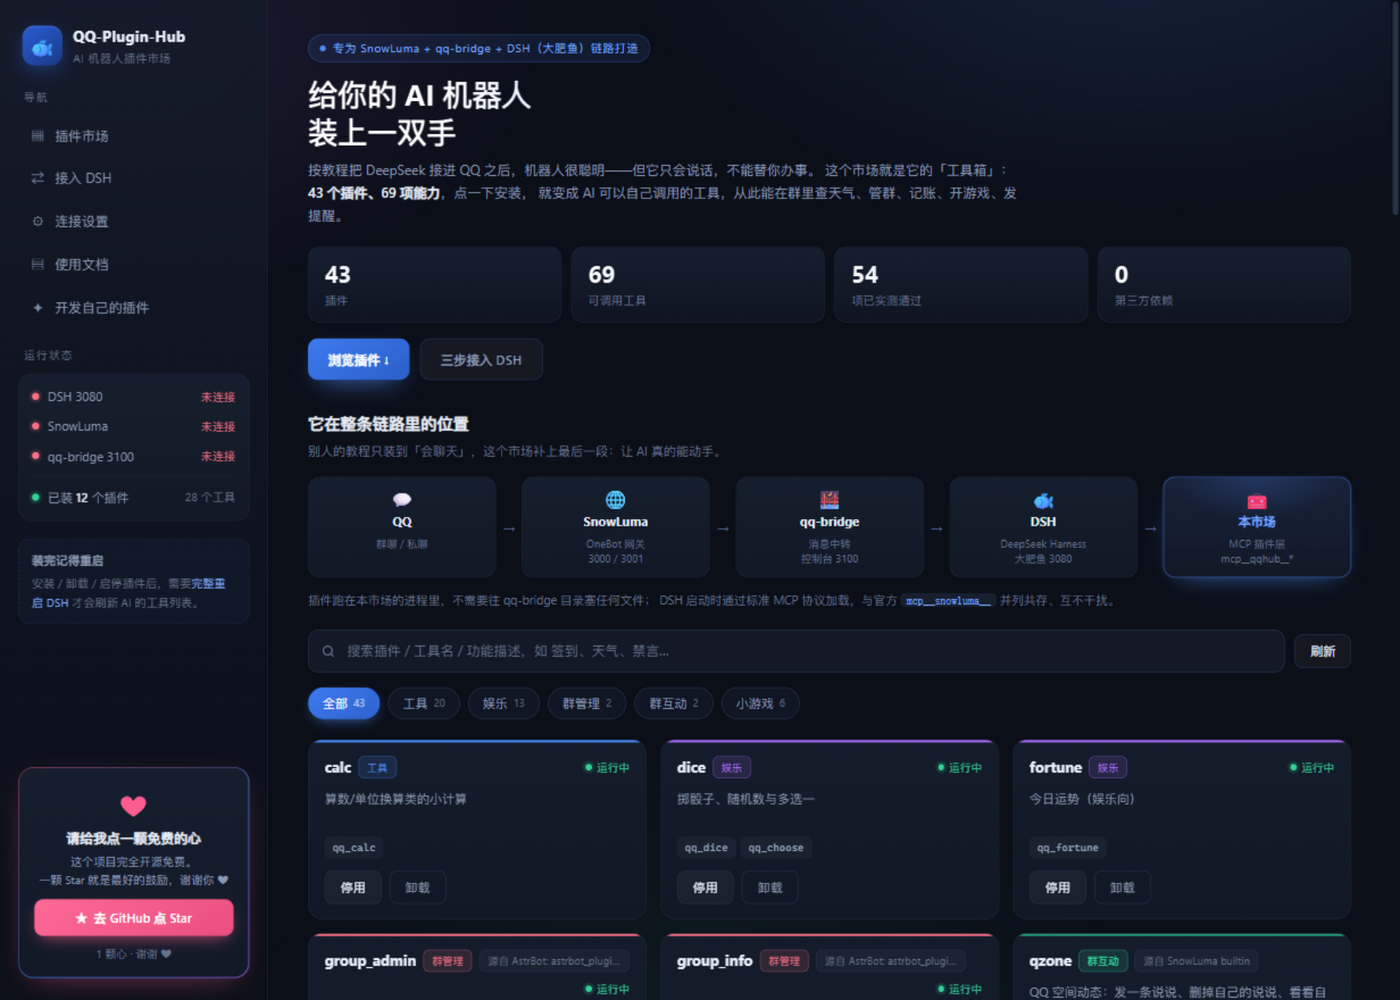
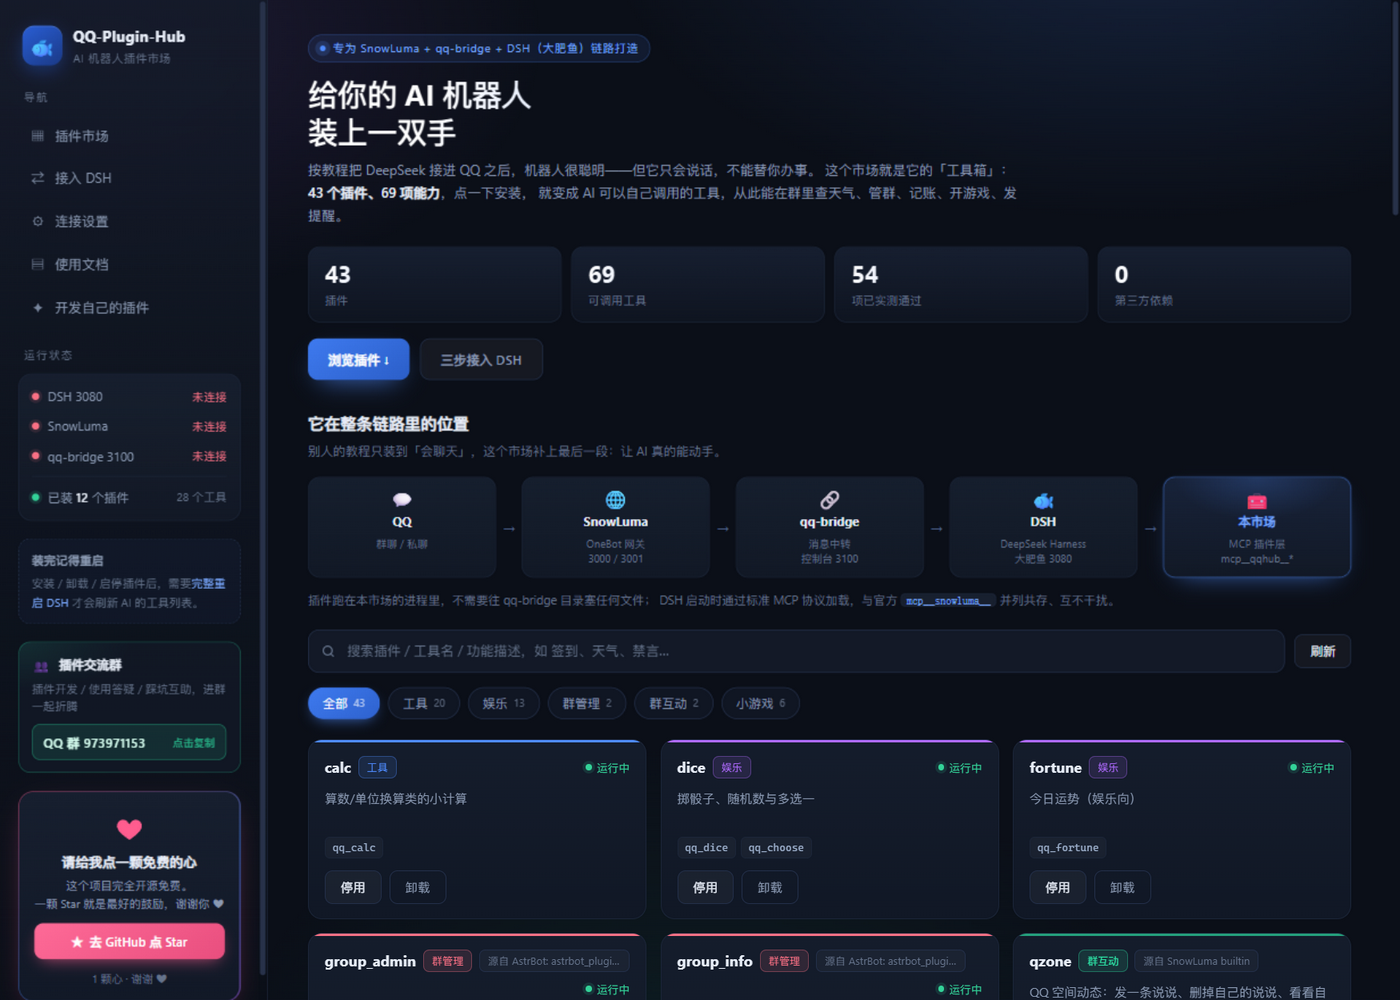
feat: 新增插件交流群入口（QQ 群 973971153）
- 左侧栏新增「插件交流群」卡片，点击一键复制群号，含复制成功反馈
- 页脚展示群号
- README 新增「交流群」章节
- 顺带修复链路图中 qq-bridge 图标在部分字体下显示为方块的问题

diff --git a/public/index.html b/public/index.html
@@ -105,6 +105,25 @@
   .tip-card b { display: block; color: var(--dim); font-size: 12px; margin-bottom: 4px; font-weight: 600; }
   .tip-card em { color: var(--acc-2); font-style: normal; }
 
+  /* 交流群卡 */
+  .join-card {
+    border: 1px solid rgba(46,230,168,.28); border-radius: 12px; padding: 12px 13px;
+    background: radial-gradient(160px 70px at 0% 0%, rgba(46,230,168,.1), transparent 70%), rgba(20,27,41,.6);
+  }
+  .join-head { display: flex; align-items: center; gap: 8px; margin-bottom: 4px; }
+  .join-head b { font-size: 12.5px; }
+  .join-ic { font-size: 14px; line-height: 1; }
+  .join-card p { margin: 0 0 9px; font-size: 11.5px; color: var(--dim2); line-height: 1.55; }
+  .join-btn {
+    width: 100%; display: flex; align-items: center; justify-content: space-between; gap: 8px;
+    padding: 7px 11px; border-radius: 8px; font-size: 12.5px; font-weight: 600;
+    color: #d6fff0; background: rgba(46,230,168,.11);
+    border: 1px solid rgba(46,230,168,.34); letter-spacing: .4px;
+  }
+  .join-btn:hover { background: rgba(46,230,168,.18); border-color: rgba(46,230,168,.6); transform: none; }
+  .join-btn em { font-style: normal; font-size: 10.5px; font-weight: 400; color: rgba(46,230,168,.75); letter-spacing: 0; }
+  .join-btn.copied { border-color: rgba(46,230,168,.8); background: rgba(46,230,168,.2); }
+
   /* 求星卡片 */
   .star-card {
     margin-top: auto; position: relative; border-radius: 15px; padding: 1px;
@@ -464,6 +483,16 @@
       安装 / 卸载 / 启停插件后，需要<em>完整重启 DSH</em> 才会刷新 AI 的工具列表。
     </div>
 
+    <!-- 交流群 -->
+    <div class="join-card">
+      <div class="join-head"><span class="join-ic">👥</span><b>插件交流群</b></div>
+      <p>插件开发 / 使用答疑 / 踩坑互助，进群一起折腾</p>
+      <button class="join-btn" id="joinBtn" onclick="copyGroup()" title="点击复制群号">
+        <span>QQ 群 973971153</span>
+        <em>点击复制</em>
+      </button>
+    </div>
+
     <!-- 求星卡片 -->
     <div class="star-card">
       <div class="star-inner">
@@ -515,7 +544,7 @@
           <div class="arrow">→</div>
           <div class="node"><i>🌐</i><b>SnowLuma</b><span>OneBot 网关<br>3000 / 3001</span></div>
           <div class="arrow">→</div>
-          <div class="node"><i>🌉</i><b>qq-bridge</b><span>消息中转<br>控制台 3100</span></div>
+          <div class="node"><i>🔗</i><b>qq-bridge</b><span>消息中转<br>控制台 3100</span></div>
           <div class="arrow">→</div>
           <div class="node"><i>🐟</i><b>DSH</b><span>DeepSeek Harness<br>大肥鱼 3080</span></div>
           <div class="arrow">→</div>
@@ -603,6 +632,7 @@
 
       <footer>
         开源项目 <a href="https://github.com/xiazhuo123456789/qqbot-plugins" target="_blank" rel="noopener">qqbot-plugins</a>
+        · 交流群 <b style="color:#7ee8c4">973971153</b>
         · MIT License · 本项目界面与图标均为原创实现，不含任何第三方素材
       </footer>
     </div>
@@ -648,6 +678,26 @@ function toast(msg, kind) {
   t.className = 'toast show' + (kind ? ' ' + kind : '');
   clearTimeout(t._h);
   t._h = setTimeout(() => { t.className = 'toast'; }, 3600);
+}
+
+/* 复制交流群群号 */
+const GROUP_NO = '973971153';
+async function copyGroup() {
+  const btn = $('#joinBtn');
+  const tip = btn.querySelector('em');
+  try {
+    await navigator.clipboard.writeText(GROUP_NO);
+    btn.classList.add('copied');
+    tip.textContent = '已复制 ✓';
+    toast('群号 ' + GROUP_NO + ' 已复制，打开 QQ 搜索群号加入', 'ok');
+    setTimeout(() => { btn.classList.remove('copied'); tip.textContent = '点击复制'; }, 2200);
+  } catch {
+    /* 非安全上下文（比如用局域网 IP 访问）时降级为手动提示 */
+    btn.classList.add('copied');
+    tip.textContent = '请手动记下';
+    toast('本页不能自动复制，群号是：' + GROUP_NO);
+    setTimeout(() => { btn.classList.remove('copied'); tip.textContent = '点击复制'; }, 3200);
+  }
 }
 
 /* 侧栏运行状态 */

diff --git a/README.md b/README.md
@@ -250,6 +250,15 @@ QQ-Plugin-Hub/
 2. **用小号**：机器人自动行为容易触发风控；
 3. **危险操作有确认**：踢人/全体禁言/设管理员要求 `confirm=true`，出现意外行为可在市场里一键停用插件。
 
+## 交流群
+
+插件开发、使用答疑、踩坑互助，都在这儿：
+
+> **QQ 群：973971153**（点群号复制，QQ 里搜索加入）
+
+群里会同步插件更新、收集新插件需求。想加插件但不会写的话，把"想要什么功能"发群里就行；
+自己写好了想合并进主仓库，也欢迎直接提 PR。
+
 ## 版权与第三方说明（不侵权）
 
 本项目从零实现，可以放心使用和二次分发：
